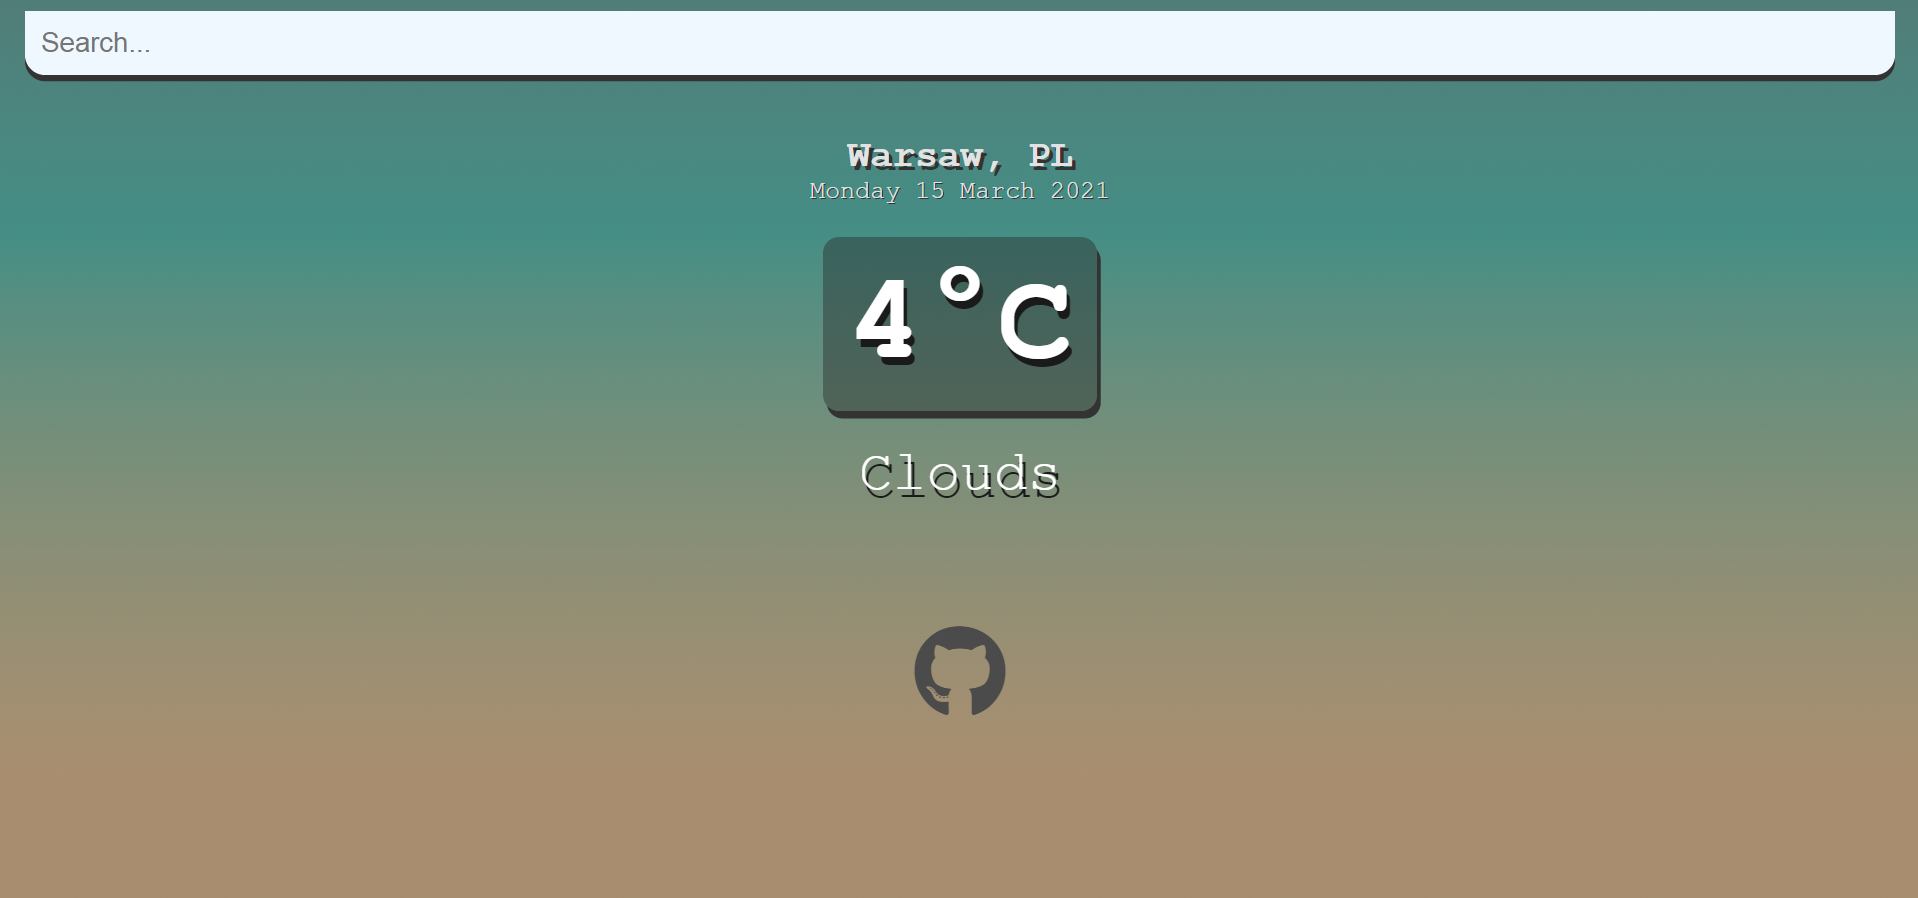
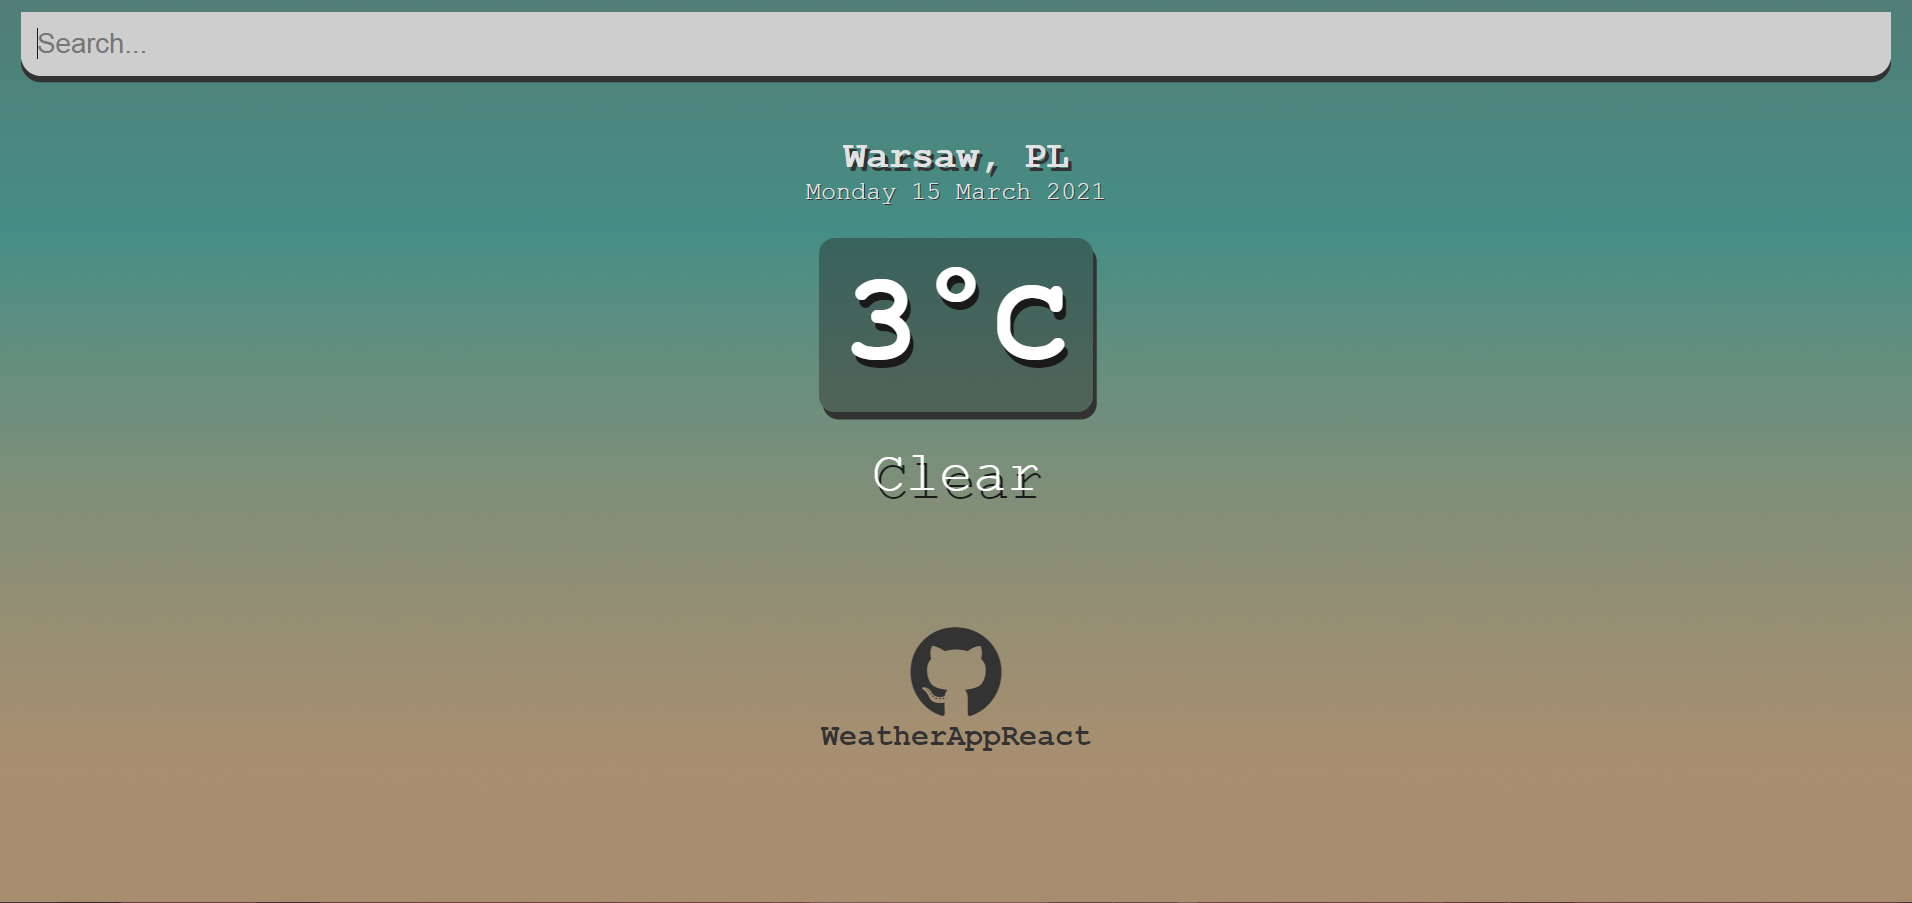
minor fixes

diff --git a/weather-app-react/src/App.js b/weather-app-react/src/App.js
@@ -70,6 +70,7 @@ function App()
               ) : ('')}
               <div className="footer">
               <a  target="_blank" rel="noopener noreferrer" href="https://github.com/YunaAnn"><i className="fab fa-github"></i></a>
+              <h2>WeatherAppReact</h2>
               </div>
 
 

diff --git a/weather-app-react/src/index.css b/weather-app-react/src/index.css
@@ -102,5 +102,6 @@ main
 }
 
 .footer { text-align: center;  margin-top:6rem;}
-i {color: #4b4b4b; font-size:75px}
-i:hover{color: #333}
+i {color: #333; font-size:75px}
+i:hover{color: 4b4b4b}
+h2 {color:#333}
